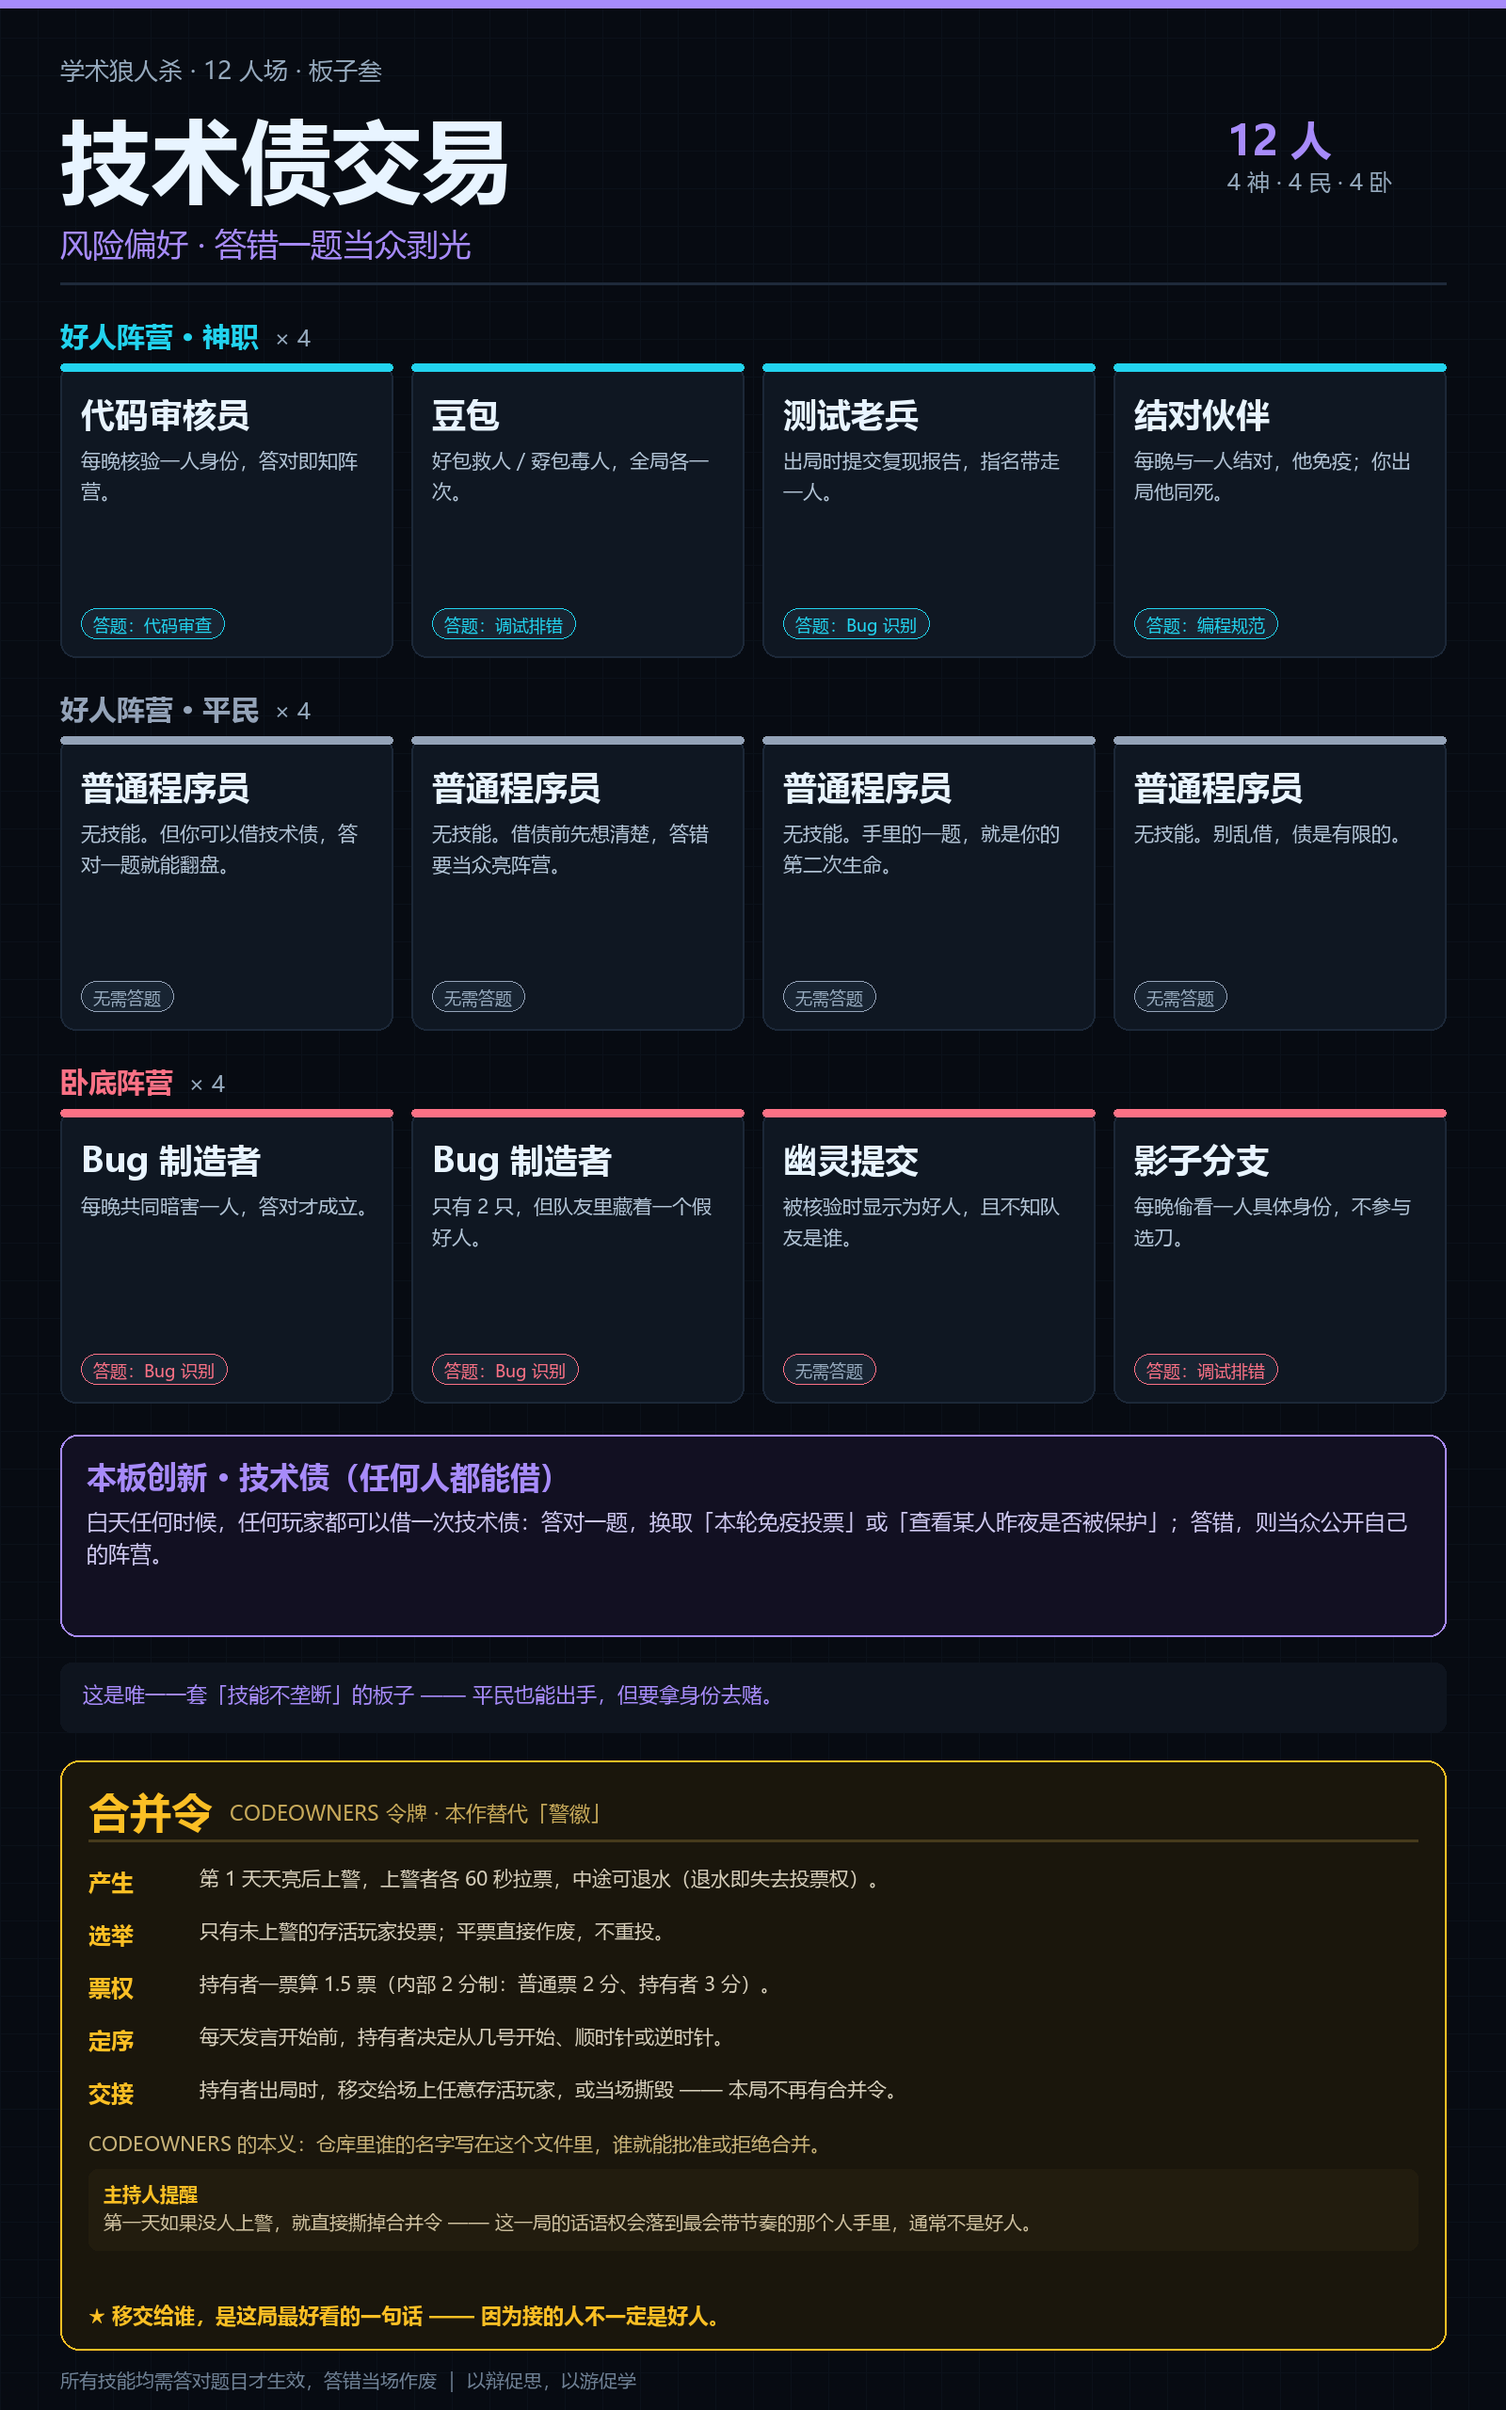
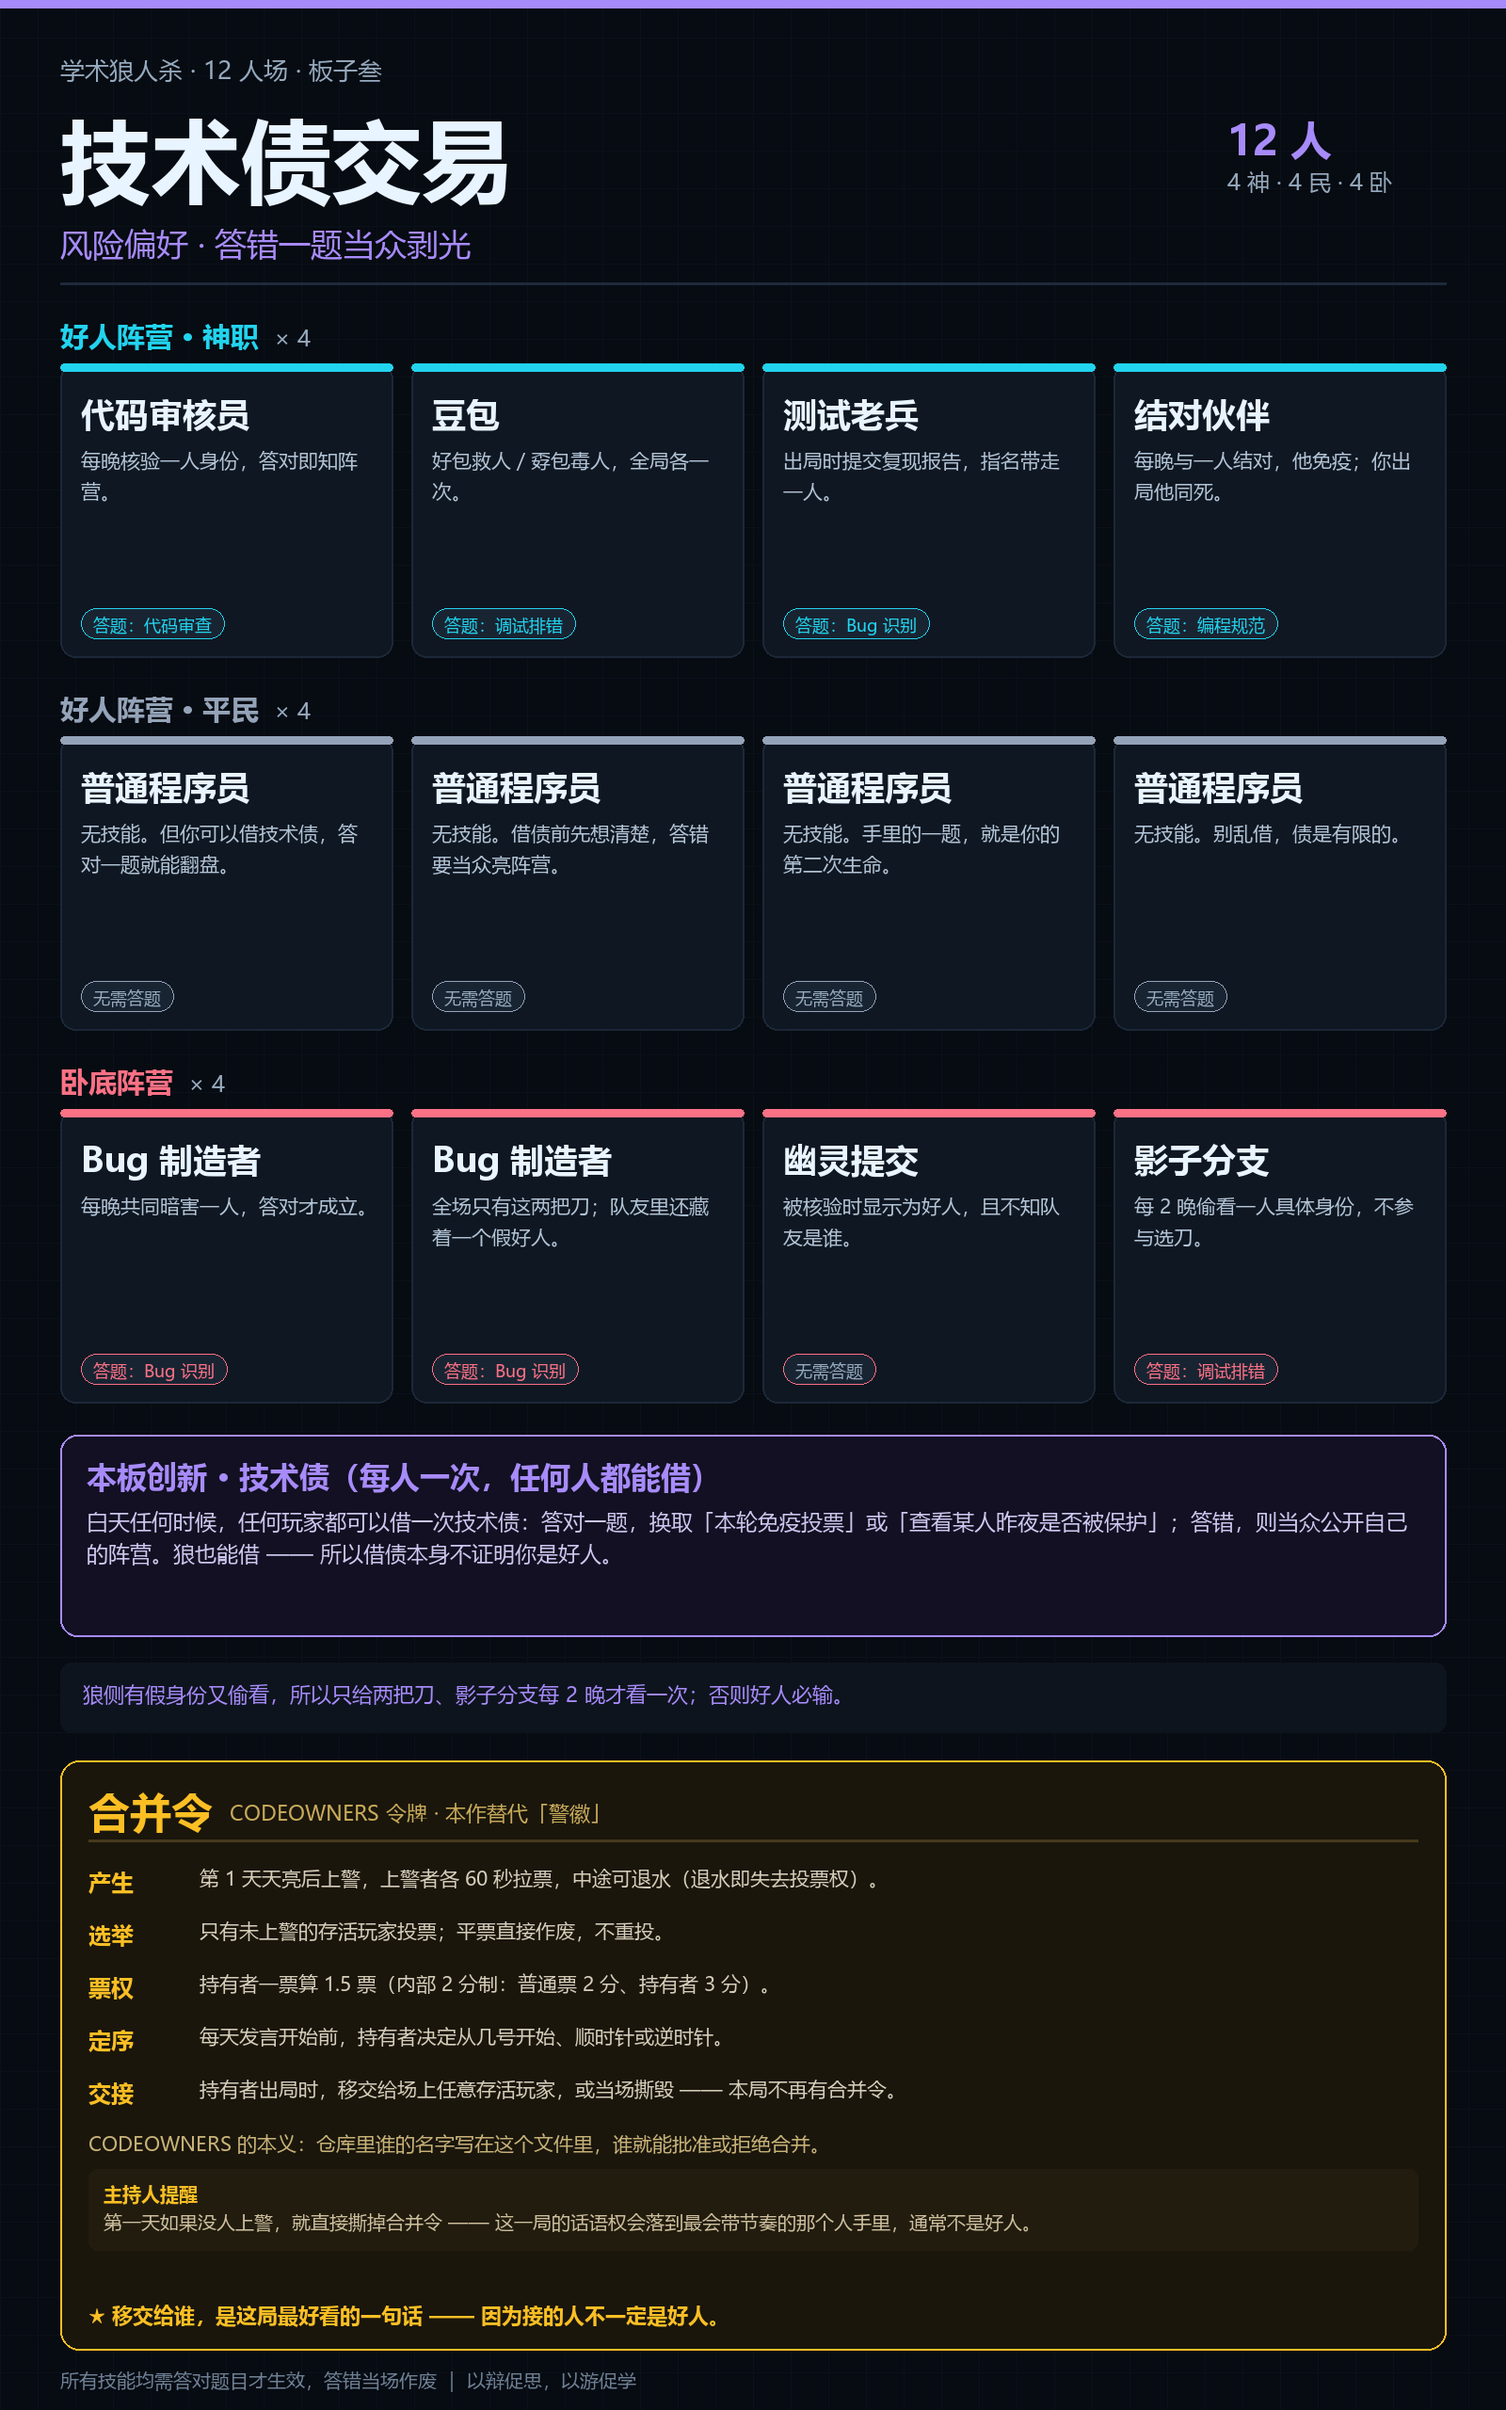
fix: 三套板子强度校准
- 板子壹：删掉静态扫描器（等于第二个预言家），改为公共 Scan 报告（30% 假报告、只缩范围到 2 人）
- 板子贰：时限 4 天 -> 5 天，12 人 4 狼卡 4 天等于直接判好人输
- 板子叁：只给两把刀、影子分支每 2 晚才看一次、技术债每人一次且狼也能借

diff --git a/docs/12人场三套板子.md b/docs/12人场三套板子.md
@@ -1,9 +1,9 @@
-# 12 人场 · 三套板子（正式版）
+# 12 人场 · 三套板子（正式版 · 已校准强度）
 
 三张海报见同目录 `板子壹-代码审查会.png` / `板子贰-上线倒计时.png` / `板子叁-技术债交易.png`。
 
-**三套板子共用一套底层规则**：12 人 = 4 神 + 4 民 + 4 卧，白天发言 → 投票 → 出局结算。
-**也都共用同一枚「合并令」**（替代网易的警徽）和同一条铁律：**所有技能都要答对题才生效，答错当场作废。**
+**三套共用底层规则**：12 人 = 4 神 + 4 民 + 4 卧；白天发言 → 投票 → 出局结算；
+共用同一枚**「合并令」**（替代网易的警徽）与同一条铁律：**所有技能都要答对题才生效，答错当场作废。**
 
 三套的区别只有一个：
 
@@ -12,7 +12,23 @@
 | 名字 | 代码审查会 | 上线倒计时 | 技术债交易 |
 | 赌什么 | **信息的可信度** | **时间** | **风险偏好** |
 | 一句话 | 每一条线索都可能是假的 | 带病发布就是输 | 答错一题当众剥光 |
-| 适合 | 第一次开 12 人场 | 打过两轮、节奏太慢的班 | 老手局、想看点刺激的 |
+| 适合 | 第一次开 12 人场 | 节奏太慢、爱拖的班 | 老手局 |
+
+---
+
+## 零、强度是怎么算的（这一节最重要）
+
+三个板子都按同一个尺子校过：**好人每夜能拿到几条"指向具体人"的信息，卧底每夜能制造几次死亡。**
+
+| | 好人信息位 | 好人保护位 | 狼的刀数 | 狼的额外能力 |
+|---|---|---|---|---|
+| 板子壹 | 1（代码审核员） | 1（豆包）+ 控场（冻结） | 3 | 自爆带人 ×1 |
+| 板子贰 | 1 | 2（豆包 + 学术监督员） | 3 | 带人 ×1 + 时限压力 |
+| 板子叁 | 1（**而且会被骗**） | 2（豆包 + 结对伙伴） | **2** | 偷看身份（每 2 晚 1 次） |
+
+**核心原则：好人永远只有一个真验人位。** 第二个"验人类"技能一旦出现，12 人 4 狼的局面会在第 3 晚就被验穿——狼没有生存空间，游戏提前结束，参与者体验极差。
+
+所以三套里所有"额外信息"都做了两件事之一：**要么不是指向具体人的**（板子壹的 Scan 是范围报告），**要么狼自己也有**（板子叁的偷看）。
 
 ---
 
@@ -21,9 +37,11 @@
 **信息战 —— 每一条线索都可能是假的**
 
 ### 阵营
-- **好人 · 神职 4**：代码审核员 / 豆包 / 测试老兵 / **静态扫描器**
+- **好人 · 神职 4**：代码审核员 / 豆包 / 测试老兵 / **冻结管理员**
 - **好人 · 平民 4**：普通程序员 ×4
 - **卧底 4**：Bug 制造者 ×3 / **零日漏洞** ×1
+
+> 最初这里放的是「静态扫描器」（每晚指定一人、次日公开扫描结果）。**那就是第二个预言家**——12 人局有两位验人位，狼在第 3 晚就被验穿，游戏直接结束。已删掉，改成公共机制，见下。
 
 ### 角色
 | 角色 | 技能 | 答题 |
@@ -31,17 +49,19 @@
 | 代码审核员 | 每晚核验一人身份，答对即知阵营 | 代码审查 |
 | 豆包 | 好包救人 / 孬包毒人，全局各一次 | 调试排错 |
 | 测试老兵 | 出局时提交复现报告，指名带走一人 | Bug 识别 |
-| **静态扫描器** | 每晚指定一人，次日公开扫描结果 | 编程规范 |
+| **冻结管理员** | 每晚冻结一人，他白天不能发言，但仍可投票 | 编程规范 |
 | 普通程序员 ×4 | 无技能，靠发言与投票站边 | — |
 | Bug 制造者 ×3 | 每晚共同暗害一人，答对才成立；白天可自爆，全局一次 | Bug 识别 |
 | **零日漏洞** | 白天公开披露＝自爆并带走一人，全局一次 | Bug 识别 |
 
-### 创新机制 · 每日 Scan 报告（25% 误报）
-天亮时公开一名玩家的静态扫描结果，**但报告有 25% 概率是错的，且误报率全场公开**。
+### 创新机制 · 每日 Scan 报告（30% 假报告）
 
-线索是真的，但不完全可信 —— 好人必须交叉验证两条以上证据才能定人。
+天亮时系统**随机抽 2 名存活玩家**，公布「其中恰有 1 人告警」或「两人都干净」，
+**整条报告有 30% 概率是假的。**
 
-> 这是唯一一套「证据会撒谎」的板子。别把 Scan 当预言家用。
+它最多把范围从 12 缩到 2，而且可能是错的 —— **给的是话题，不是结论。**
+
+关键在于它是**公共的**：好人能引用，狼也能引用。一条假报告落在好人头上，狼会立刻拿着它带节奏。所以"这条报告可不可信"本身就成了要辩的东西。
 
 ---
 
@@ -65,12 +85,15 @@
 | Bug 制造者 ×3 | 每晚共同暗害一人，答对才成立 | Bug 识别 |
 | **遗留系统** | 出局时技术债引爆，带走一人 | Bug 识别 |
 
-### 创新机制 · 第 4 天强制上线
-**第 4 天结束时卧底仍未全灭，卧底阵营直接获胜** —— 项目要上线，Bug 只能带病发布。
+### 创新机制 · 第 5 天强制上线
+
+**第 5 天结束时卧底仍未全灭，卧底阵营直接获胜** —— 项目要上线，Bug 只能带病发布。
 
 发布经理的「强制上线」会立刻结束当天发言、进入投票，且本轮**所有人必须投出人，禁止弃票**。
 
-> 好人只有 4 天。拖节奏＝自杀，这是唯一一套「不激进就必输」的板子。
+天数可在设置页调到 4–6。
+
+> **为什么是 5 天不是 4 天**：12 人 4 狼的常规局通常要打 5–6 天。卡 4 天等于直接判好人输——好人一夜只有一条验人信息，4 天内投出 4 个狼在数学上几乎不可能。5 天是"紧但可赢"的临界点。
 
 ---
 
@@ -91,23 +114,26 @@
 | 测试老兵 | 出局时提交复现报告，指名带走一人 | Bug 识别 |
 | **结对伙伴** | 每晚与一人结对，他免疫；你出局他同死 | 编程规范 |
 | 普通程序员 ×4 | 无技能，但可以借技术债翻盘 | — |
-| Bug 制造者 ×2 | 每晚共同暗害一人，答对才成立 | Bug 识别 |
-| **幽灵提交** | 被核验时显示为好人，且不知队友是谁 | — |
-| **影子分支** | 每晚偷看一人具体身份，不参与选刀 | 调试排错 |
+| Bug 制造者 ×2 | **全场只有这两把刀**；队友里还藏着一个假好人 | Bug 识别 |
+| **幽灵提交** | 被核验时显示为好人，且不知队友是谁；**不参与夜间** | — |
+| **影子分支** | **每 2 晚**偷看一人具体身份，**不参与选刀** | 调试排错 |
 
-### 创新机制 · 技术债（任何人都能借）
+### 创新机制 · 技术债（每人一次，任何人都能借）
+
 白天任何时候，**任何玩家**都可以借一次技术债：
 
 - **答对一题** → 换取「本轮免疫投票」或「查看某人昨夜是否被保护」
 - **答错** → 当众公开自己的阵营
 
-> 这是唯一一套「技能不垄断」的板子 —— 平民也能出手，但要拿身份去赌。
+**狼也能借** —— 所以"他借债了"不证明他是好人。
+
+> **为什么限制这么狠**：这一套的狼有假身份又有偷看，信息本来就占优。如果不把刀数压到 2 把、不给影子分支每晚都看，好人必输。**技术债是给好人补的那口气。**
 
 ---
 
 ## 合并令 · CODEOWNERS 令牌
 
-**这就是替代「警徽」的东西。** 名字取自 GitHub 的真实机制：仓库里谁的名字写在 `CODEOWNERS` 文件里，谁就能批准或拒绝合并 —— 谁有合并权，谁就是这个项目的实际话事人。
+**这是替代「警徽」的东西。** 名字取自 GitHub 的真实机制：仓库里谁的名字写在 `CODEOWNERS` 文件里，谁就能批准或拒绝合并 —— 谁有合并权，谁就是这个项目的实际话事人。
 
 持有合并令的人叫**代码所有者**。
 
